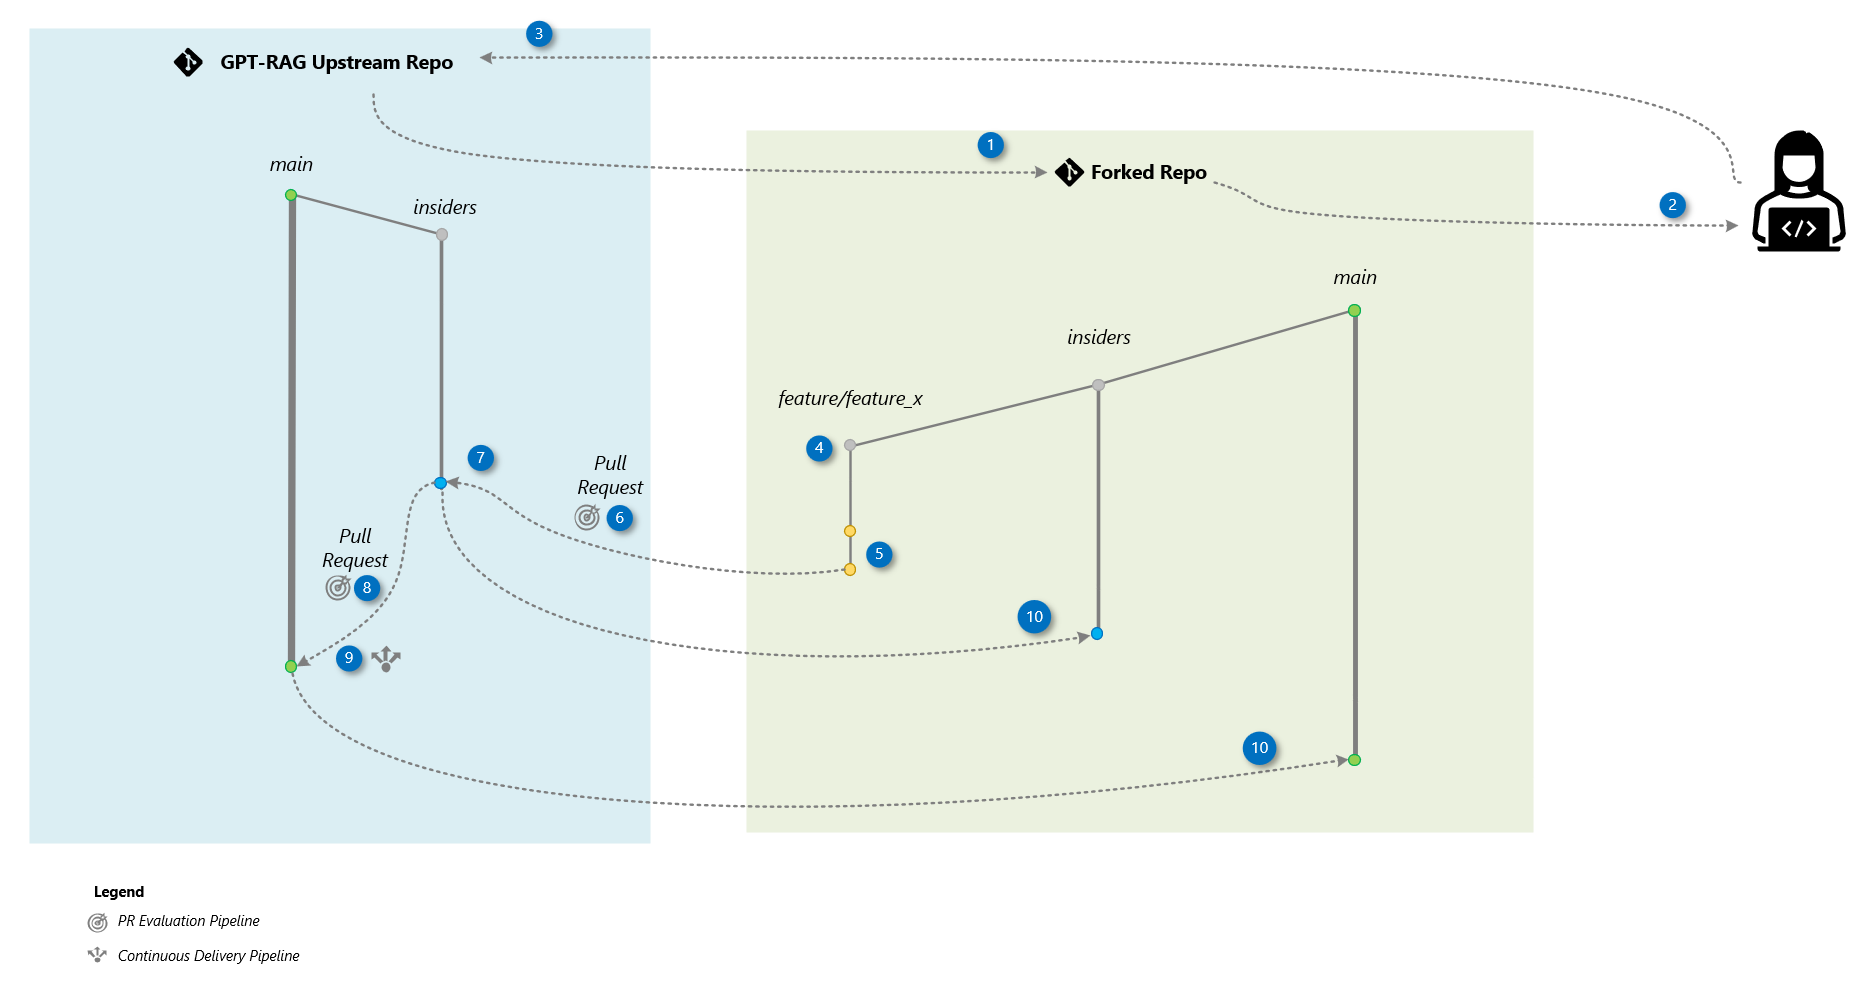
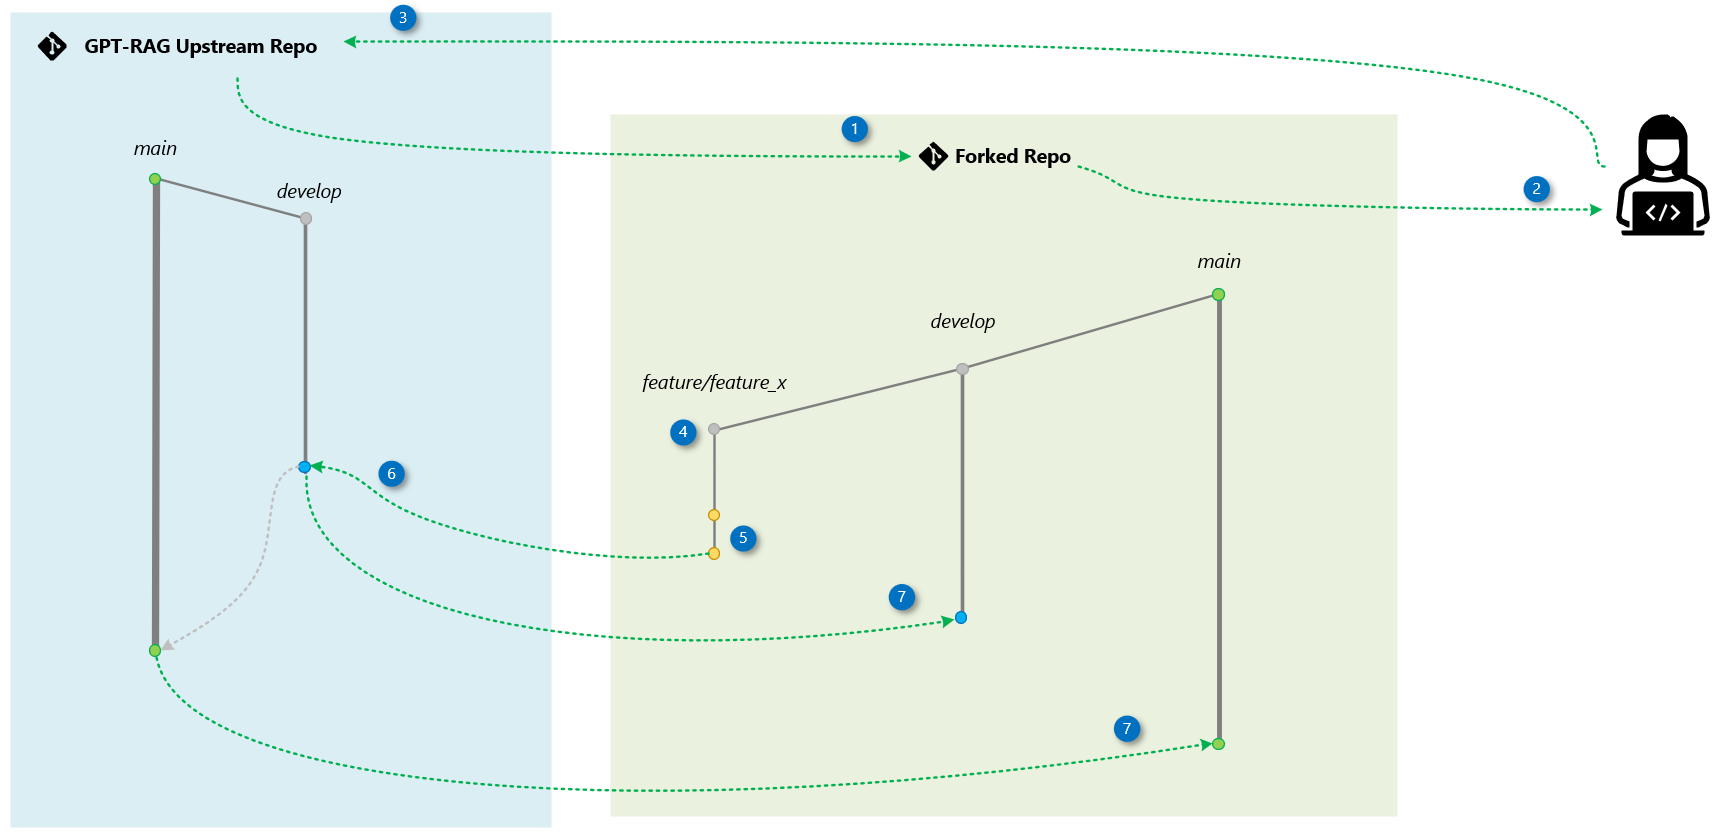
release workflow

diff --git a/CONTRIBUTING.md b/CONTRIBUTING.md
@@ -10,7 +10,7 @@ Below, you'll find details on how our code update process works and instructions
 
 Follow these guidelines to ensure smooth integration and maintain the quality of the project. Adhering to these best practices will streamline the review process and keep the codebase clean.
 
-- **Target the `insiders` Branch:** Always direct your pull request to the `insiders` branch to ensure that changes are properly integrated into the project's development workflow.
+- **Target the `develop` Branch:** Always direct your pull request to the `develop` branch to ensure that changes are properly integrated into the project's development workflow.
  
 - **Keep Pull Requests Small:** Aim to make your pull requests as focused and concise as possible. This makes it easier to review and ensures quicker integration into the codebase.
   
@@ -22,9 +22,9 @@ Follow these guidelines to ensure smooth integration and maintain the quality of
 
 ## Code Update Workflow
 
-We use a simplified version of the [Fork and Branch Workflow](https://blog.scottlowe.org/2015/01/27/using-fork-branch-git-workflow/) alongside [Git Flow](https://nvie.com/posts/a-successful-git-branching-model/). The `main` branch always contains deployment-ready code, while the `insiders` branch serves as our integration branch.
+We use a simplified version of the [Fork and Branch Workflow](https://blog.scottlowe.org/2015/01/27/using-fork-branch-git-workflow/) alongside [Git Flow](https://nvie.com/posts/a-successful-git-branching-model/). The `main` branch always contains deployment-ready code, while the `develop` branch serves as our integration branch.
 
-Contributors create feature branches from `insiders` in their forks. Once changes are completed, they submit a pull request to the `insiders` branch in the upstream repository. After review and approval, reviewers merge the changes into `insiders`. Weekly, maintainers group these changes into a pull request from `insiders` to `main` for final review and merging.
+Contributors create feature branches from `develop` in their forks. Once changes are completed, they submit a pull request to the `develop` branch in the upstream repository. After review and approval, reviewers merge the changes into `develop`. Weekly, maintainers group these changes into a pull request from `develop` to `main` for final review and merging.
 
 ### Step-by-Step Process Overview
 
@@ -39,17 +39,8 @@ This section outlines the contribution process, highlighting the key actions for
 3. **Add Upstream**: Link the original repository as "upstream" to keep your fork synced.
 4. **Create a Feature Branch**: Start a new branch for your changes.
 5. **Commit and Push Changes**: Implement your changes and push them to your GitHub fork.
-6. **Open a Pull Request**: Propose your changes to the original repository.
-
-#### Reviewers
-
-7. **Review Pull Request**: Review the pull request, approve it, and merge it into the `insiders` branch.
-8. **Merge to Main**: Include changes from merged pull requests into a pull request from `insiders` to `main`.
-9. **Final Review and Merge**: Reviewers conduct a final assessment of the pull request for `main` and merge it into `main`.
-
-#### Contributor
-
-10. **Keep Your Fork Updated**: Regularly sync your fork with the original repository to stay current.
+**6. Open a Pull Request**: Submit your changes for review. If approved, they’ll be merged into the `develop` branch and later into `main` based on the project’s release process.
+7. **Keep Your Fork Updated**: Regularly sync your fork with the original repository to stay current.
 
 ## Contributor's Step-by-Step Guide
 
@@ -69,17 +60,17 @@ Here’s an example of how to implement a feature called `conversation-metadata`
 
 4. **Create a Feature Branch** in your forked repository.
 
-   `git checkout -b conversation-metadata`
+   `git checkout -b feature/conversation-metadata`
 
 5. **Make Changes Locally**: Modify the code in your local clone. Commit your changes and push them to your fork on GitHub.
 
    ```bash
    git add .
    git commit -m 'Implemented conversation metadata'
-   git push origin conversation-metadata
+   git push origin feature/conversation-metadata
    ```
 
-6. **Create a Pull Request**: Go to your fork on GitHub and click "Pull Request." This request, aimed at the `insiders` branch, will be reviewed and potentially merged by the repository maintainers.
+6. **Create a Pull Request**: Go to your fork on GitHub and click "Pull Request." This request, aimed at the `develop` branch, will be reviewed and potentially merged by the repository maintainers.
 
    **Done!** Now, wait for the review and approval of your pull request. Changes may be requested.
  
@@ -90,8 +81,8 @@ It’s recommended that you update your local clone after your pull request is a
 ```bash
 git pull upstream main
 git push origin main
-git pull upstream insiders
-git push origin insiders
+git pull upstream develop
+git push origin develop
 ```
 
 #### Cleaning Your Repo After PR Acceptance
@@ -99,8 +90,7 @@ git push origin insiders
 Once your changes are merged, you can delete the feature branch from your local clone using these commands:
 
 ```bash
-git switch insiders
-git branch -d conversation-metadata
-git push origin main
-git push --delete origin conversation-metadata
+git switch develop
+git branch -d feature/conversation-metadata
+git push --delete origin feature/conversation-metadata
 ```

diff --git a/docs/RELEASE_WORKFLOW.md b/docs/RELEASE_WORKFLOW.md
@@ -1,0 +1,107 @@
+# 🧩 Release Workflow
+
+This project uses a lightweight and structured Git workflow designed for teams working with **Dev**, **QA**, and **Prod** environments. It keeps `develop` as the integration branch, `main` as the production branch, and uses **semantic version tags** to control environment promotion.
+
+> [!NOTE]
+> Although this document is located in the main repository, this release workflow applies to **all repositories** that are part of the project—such as the orchestrator, data ingestion, and others. We follow the same branching strategy and tagging process across each of them to ensure consistent releases and environment promotion.
+
+
+![Workflow Diagram](../media/release-workflow.png)
+
+
+## 🔁 Workflow Steps
+
+### 🔹 Step 1 – Develop a Feature
+
+**Who:** *Contributor*
+
+* Fork the repository.
+
+* Create a feature branch from `develop`:
+
+  ```bash
+  git checkout -b feature/your-feature-name develop
+  ```
+
+* Commit your changes and push the branch to your fork.
+
+---
+
+### 🔹 Step 2 – Submit a Pull Request to `develop`
+
+**Who:** *Contributor*
+
+* Open a Pull Request from your feature branch to the `develop` branch of the main repository.
+
+> 🧪 This triggers PR pipeline checks.
+
+---
+
+### 🔹 Step 3 – Review and Merge the PR into `develop`
+
+**Who:** *Reviewer*
+
+* Review the Pull Request.
+* Once approved, merge it into `develop`.
+
+> 📦 🚀 Builds the image and deploys `develop` to **Dev**.
+
+---
+
+### 🔹 Step 4 – Create a Release Candidate Tag (e.g., `v1.3.0-rc1`)
+
+**Who:** *Maintainer*
+
+* From the latest `develop`, create a release candidate tag:
+
+  ```bash
+  git checkout develop
+  git pull
+  git tag -a v1.3.0-rc1 -m "Release candidate 1"
+  git push origin v1.3.0-rc1
+  ```
+
+> 🚀 This triggers deployment to the **QA** environment.
+
+---
+
+### 🔹 Step 5 – Promote to Production: Open PR from `develop` to `main`
+
+**Who:** *Maintaner*
+
+* After successful QA validation, open a Pull Request from `develop` to `main`.
+
+---
+
+### 🔹 Step 6 – Tag the Final Production Release (e.g., `v1.3.0`)
+
+**Who:** *Reviewer*
+
+* Review the Pull Request.
+* Once approved, merge it into `main`.
+
+---
+
+### 🔹 Step  – Tag the Final Production Release (e.g., `v1.3.0`)
+
+**Who:** *Maintainer*
+
+* Create and push a production release tag:
+
+  ```bash
+  git checkout main
+  git pull
+  git tag -a v1.3.0 -m "Final release"
+  git push origin v1.3.0
+  ```
+> 🚀 This triggers deployment to the **Prod** environment.
+
+> [!TIP]
+> This workflow assumes contributors fork the repository to submit changes, as explained on the [contributing](../CONTRIBUTING.MD) page. If you created your own repo using this one as a **template**, you don’t need to fork — just follow the same branching and PR process directly in your repo (`feature/...` → `develop` → `main`, with release tags for QA and production).
+
+
+📝 Additional Notes
+
+- 🔖 Only final tags (like v1.3.0) should be used for GitHub Releases.
+- 🎯 Release candidate tags (e.g., v1.3.0-rc1) are used exclusively for QA validation.
+- 🔒 Contributors do not create tags or merge into main — those are handled by Reviewers.
